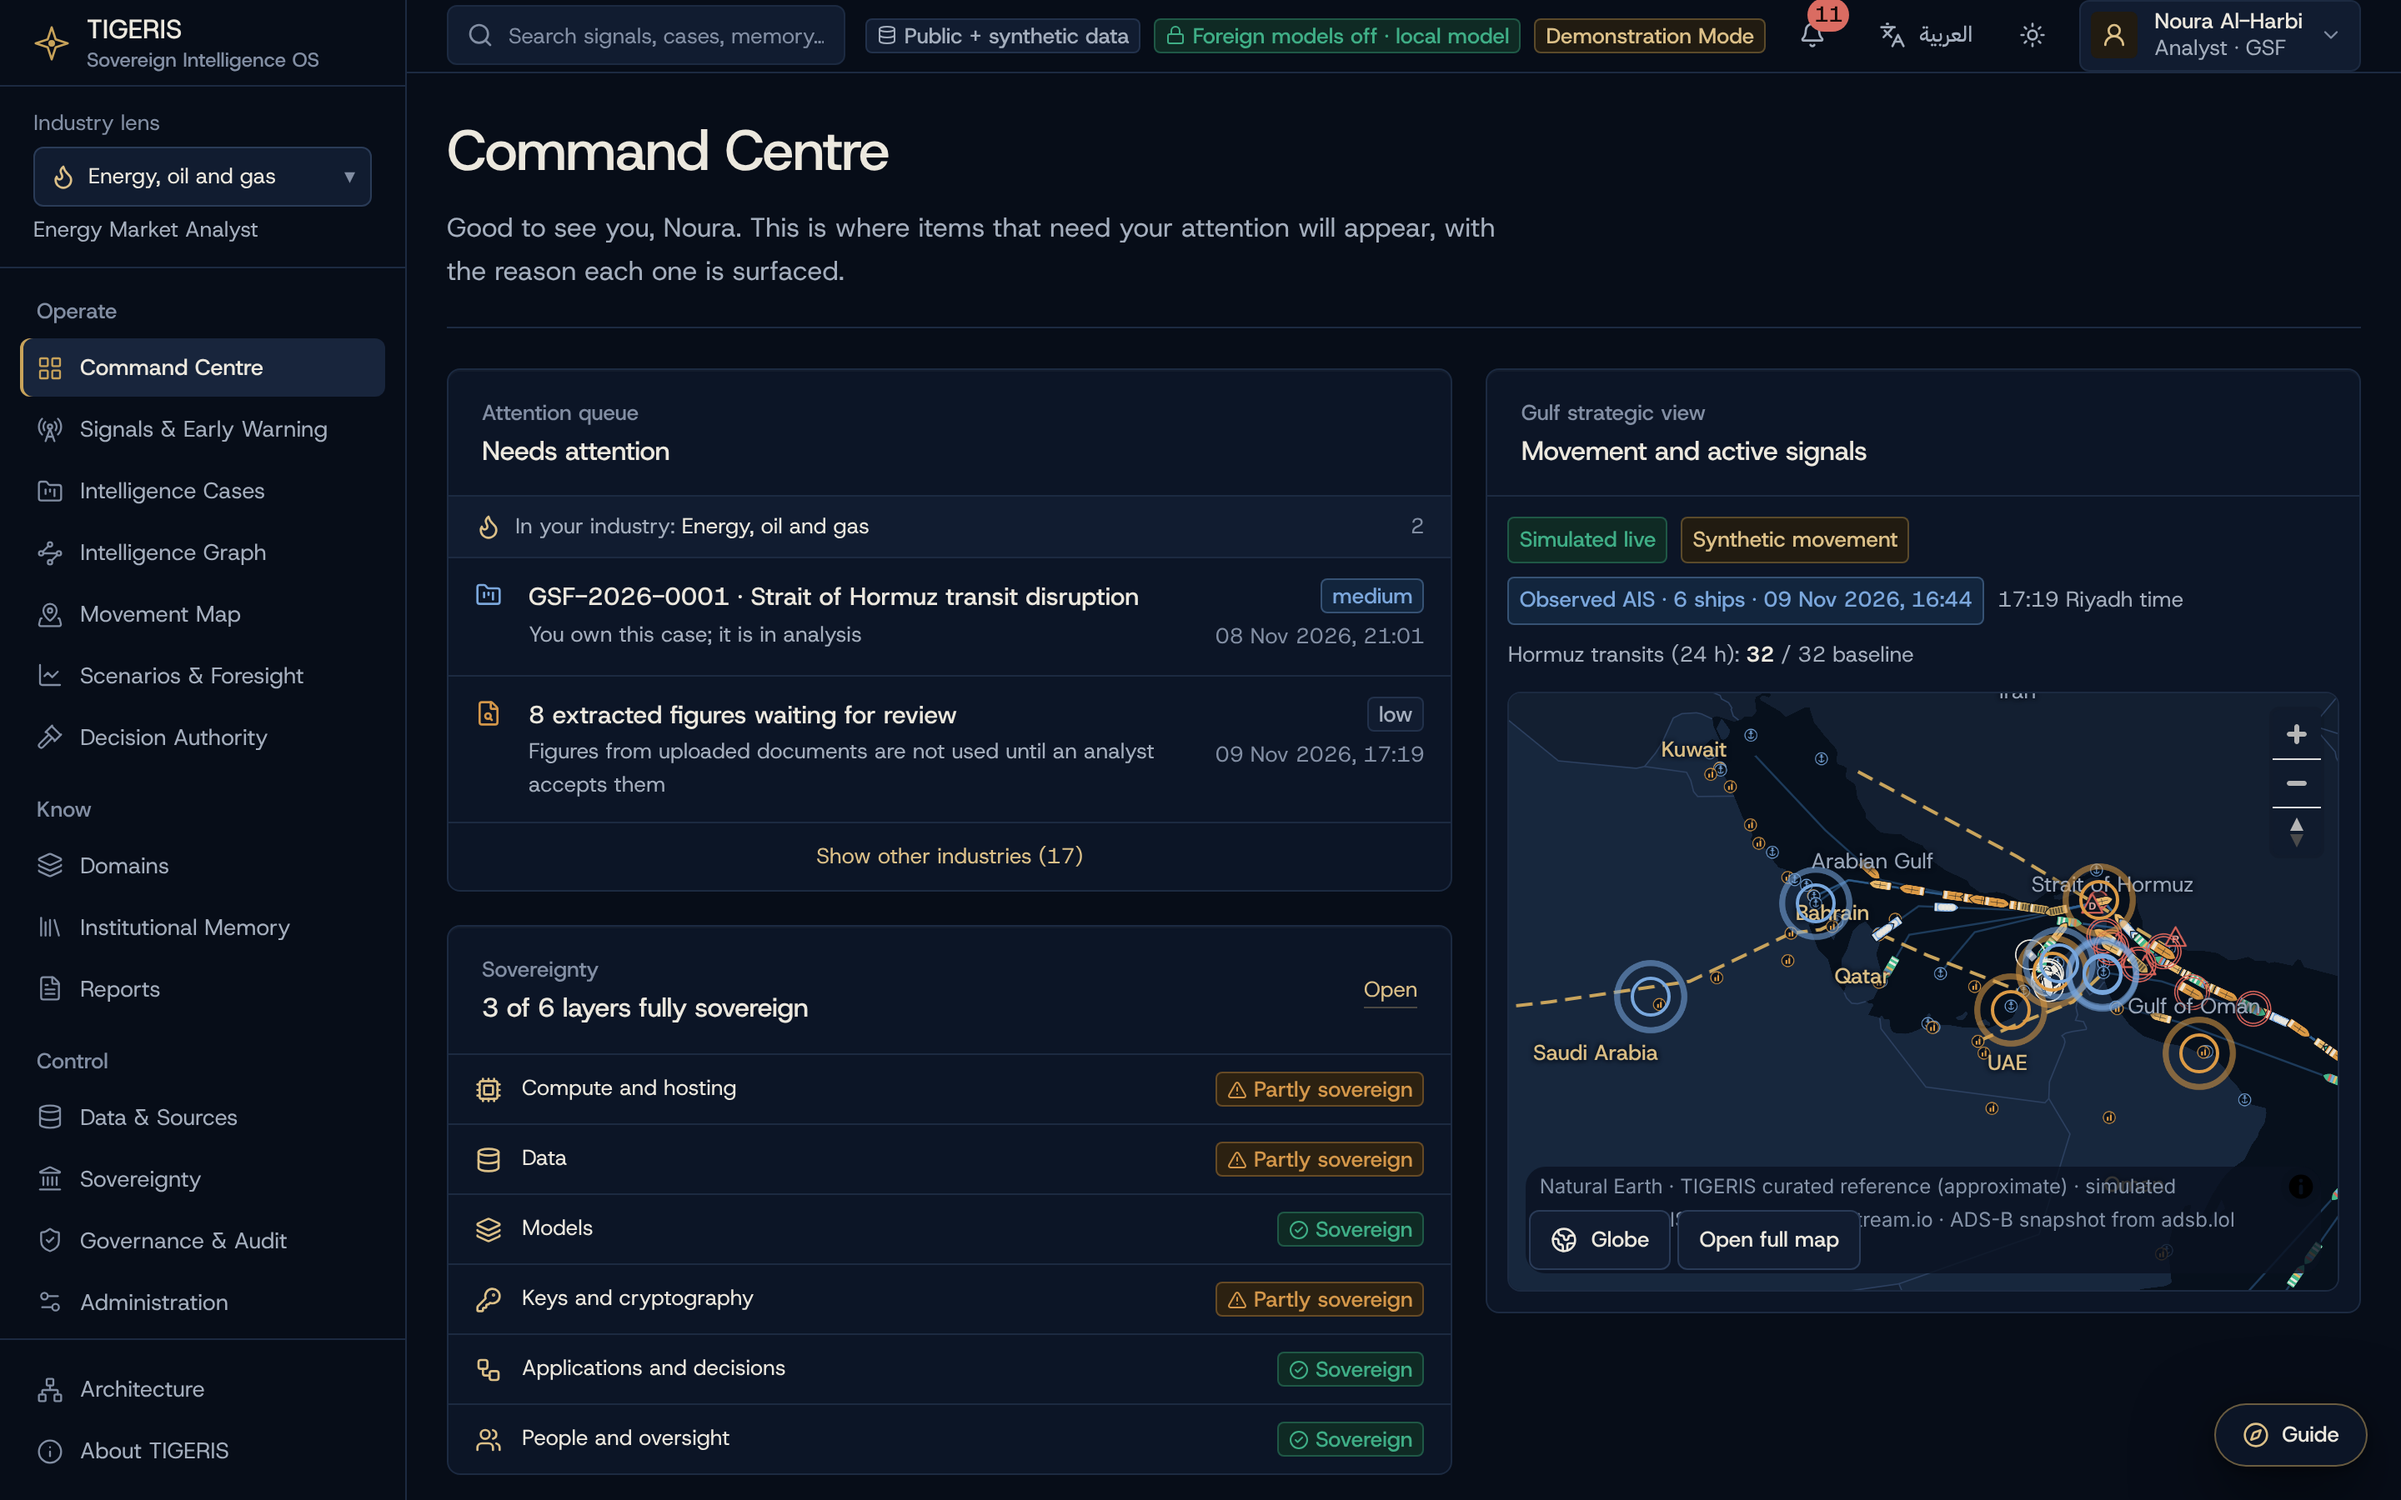
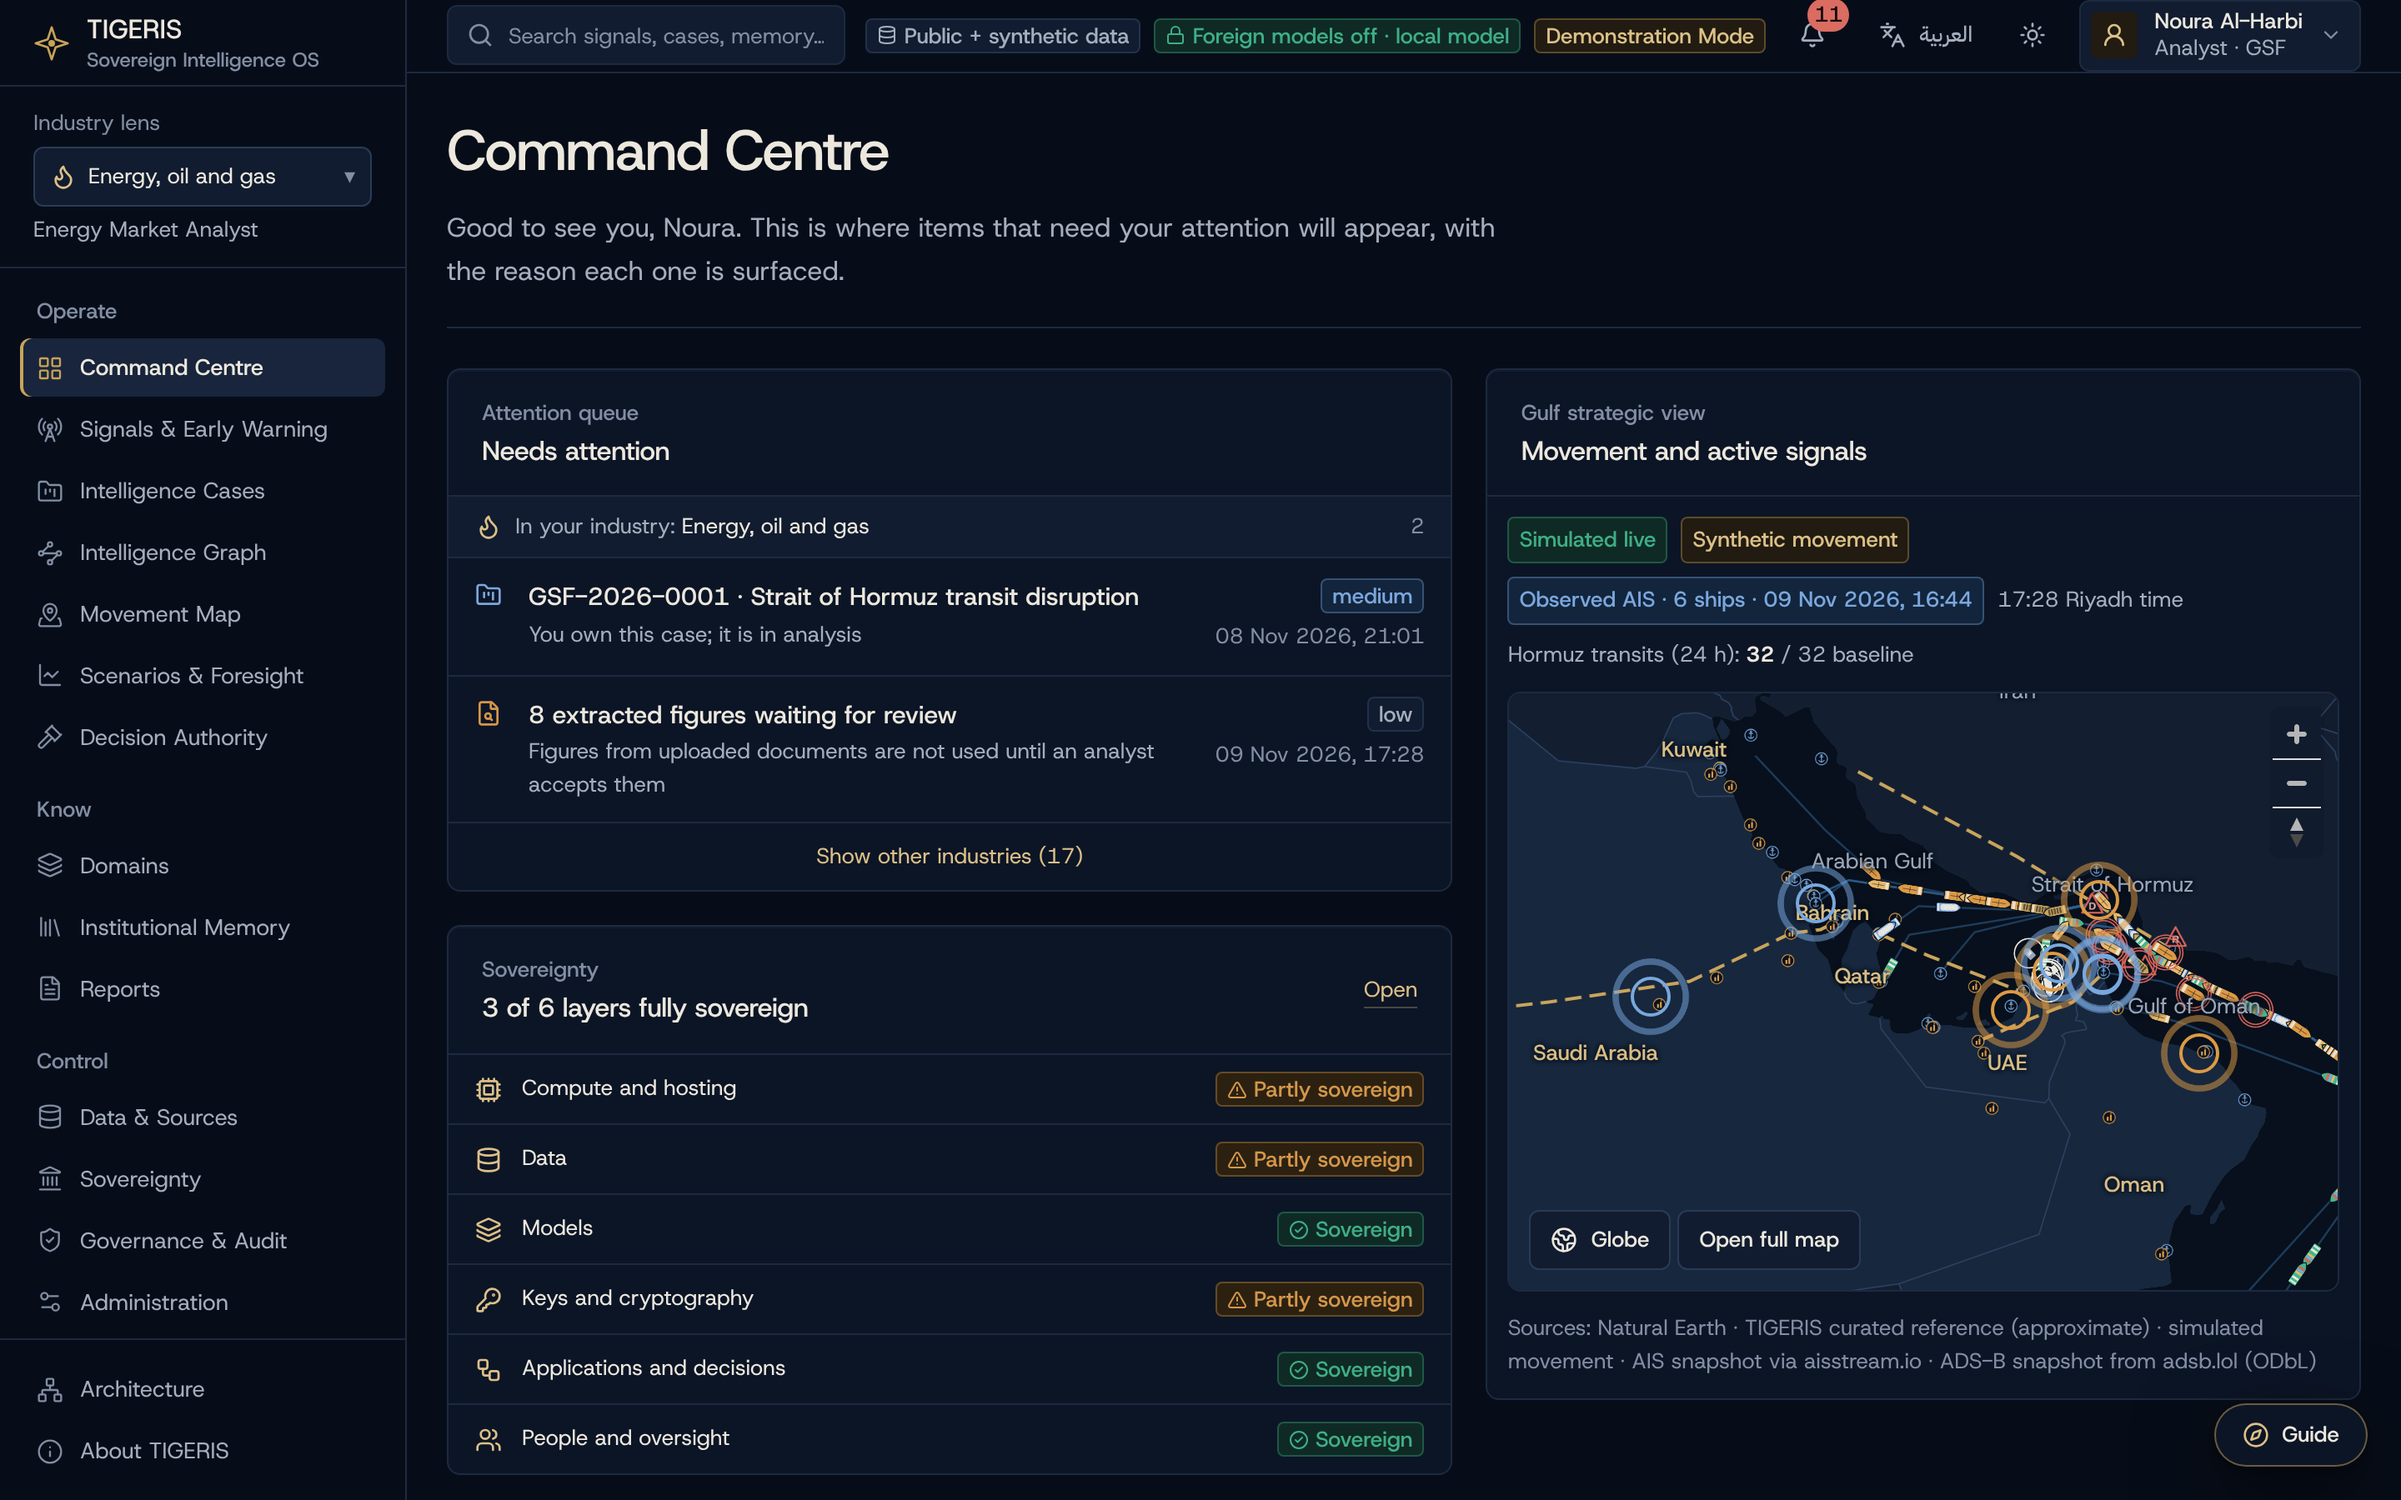
Map source credits move under the map so buttons never cover them (MAP §6)
The Command Centre map's Globe and Open full map buttons hid part of the credits line, and the full map
cut it off at the right edge. Credits are now a caption below the map in both views. README screenshots
retaken.

Claude-Session: https://claude.ai/code/session_01FZKdvZ79AiB9v47tdL94NH

diff --git a/apps/web/src/components/movement-map.tsx b/apps/web/src/components/movement-map.tsx
@@ -202,7 +202,6 @@ export function MovementMap({ compact = false, height }: { compact?: boolean; he
       renderWorldCopies: false,
     });
     m.addControl(new maplibregl.NavigationControl({ showCompass: true }), "top-right");
-    m.addControl(new maplibregl.AttributionControl({ customAttribution: "Natural Earth · TIGERIS curated reference (approximate) · simulated movement · AIS snapshot via aisstream.io · ADS-B snapshot from adsb.lol (ODbL)" }), "bottom-right");
     m.on("load", () => {
       registerIcons(m);
       m.addSource("lanes", { type: "geojson", data: fc([]) });
@@ -384,6 +383,8 @@ export function MovementMap({ compact = false, height }: { compact?: boolean; he
   const holding = movers.filter((p) => p.status === "holding").length;
   const rerouted = movers.filter((p) => p.status === "rerouted").length;
   const h = height ?? (compact ? 360 : 620);
+  // Source credits sit under the map, not on it, so map buttons never cover them (MAP §6 attribution).
+  const credits = "Natural Earth · TIGERIS curated reference (approximate) · simulated movement · AIS snapshot via aisstream.io · ADS-B snapshot from adsb.lol (ODbL)";
 
   return (
     <div className="grid gap-3">
@@ -435,6 +436,7 @@ export function MovementMap({ compact = false, height }: { compact?: boolean; he
           {compact && <Button size="sm" variant="secondary" asChild><Link href="/map">Open full map</Link></Button>}
         </div>
       </div>
+      <p className="text-[13px] text-ink-faint">Sources: {credits}</p>
 
       {view === "table" && <MoversTable movers={movers} observed={observed?.vessels ?? []} observedAir={observedAir?.aircraft ?? []} entities={data?.entities ?? []} onSelect={setSelected} />}
 
